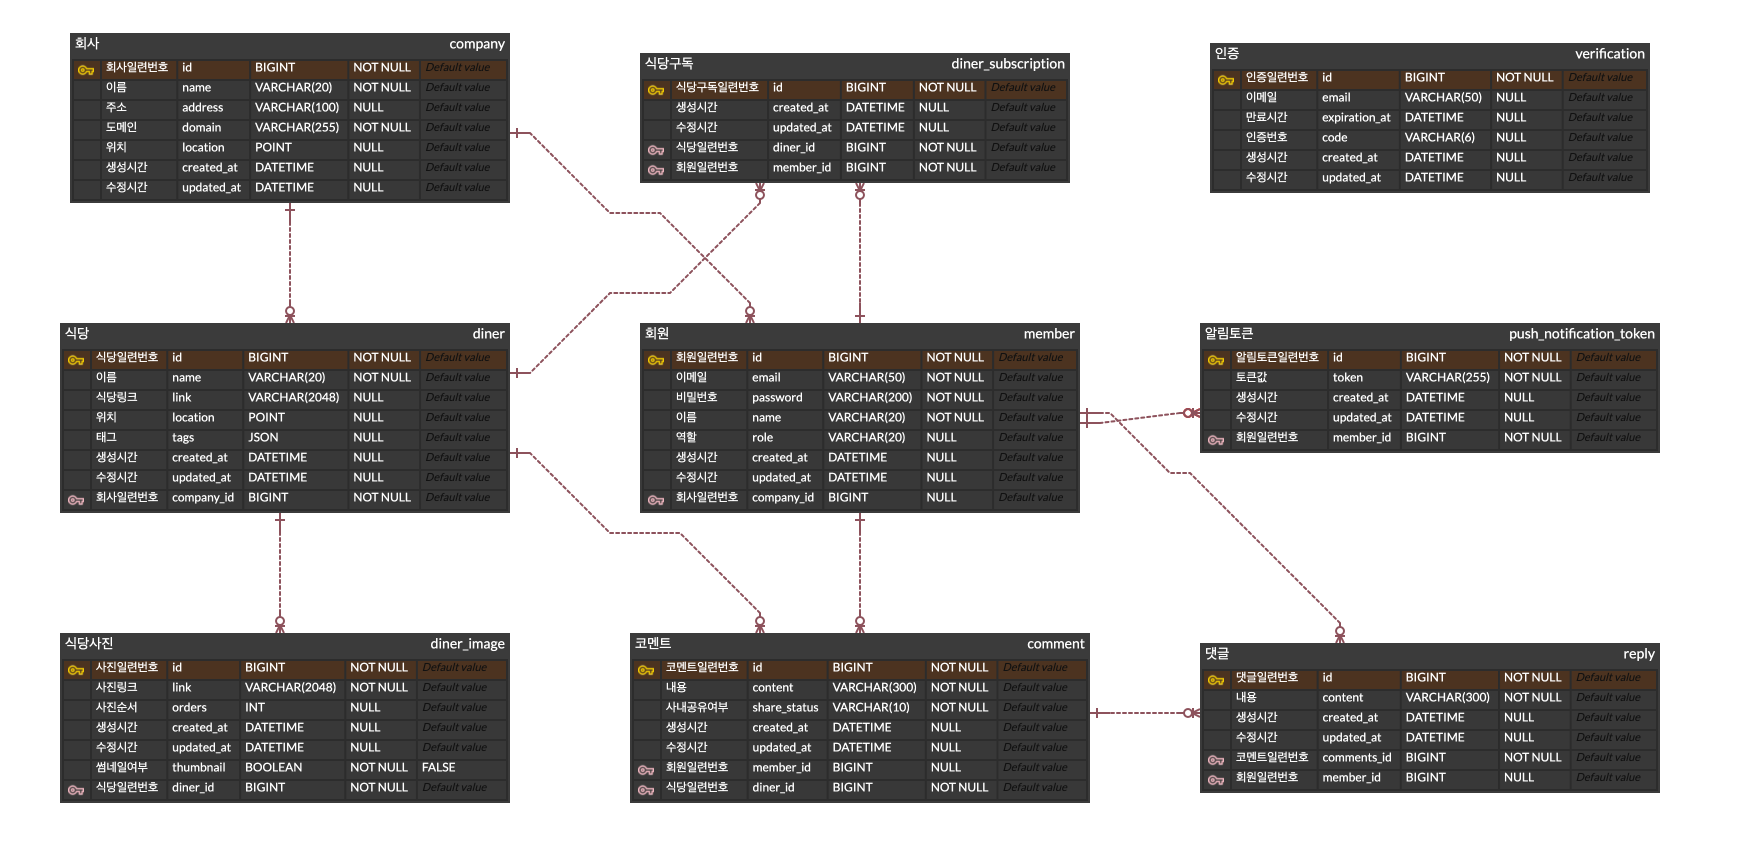
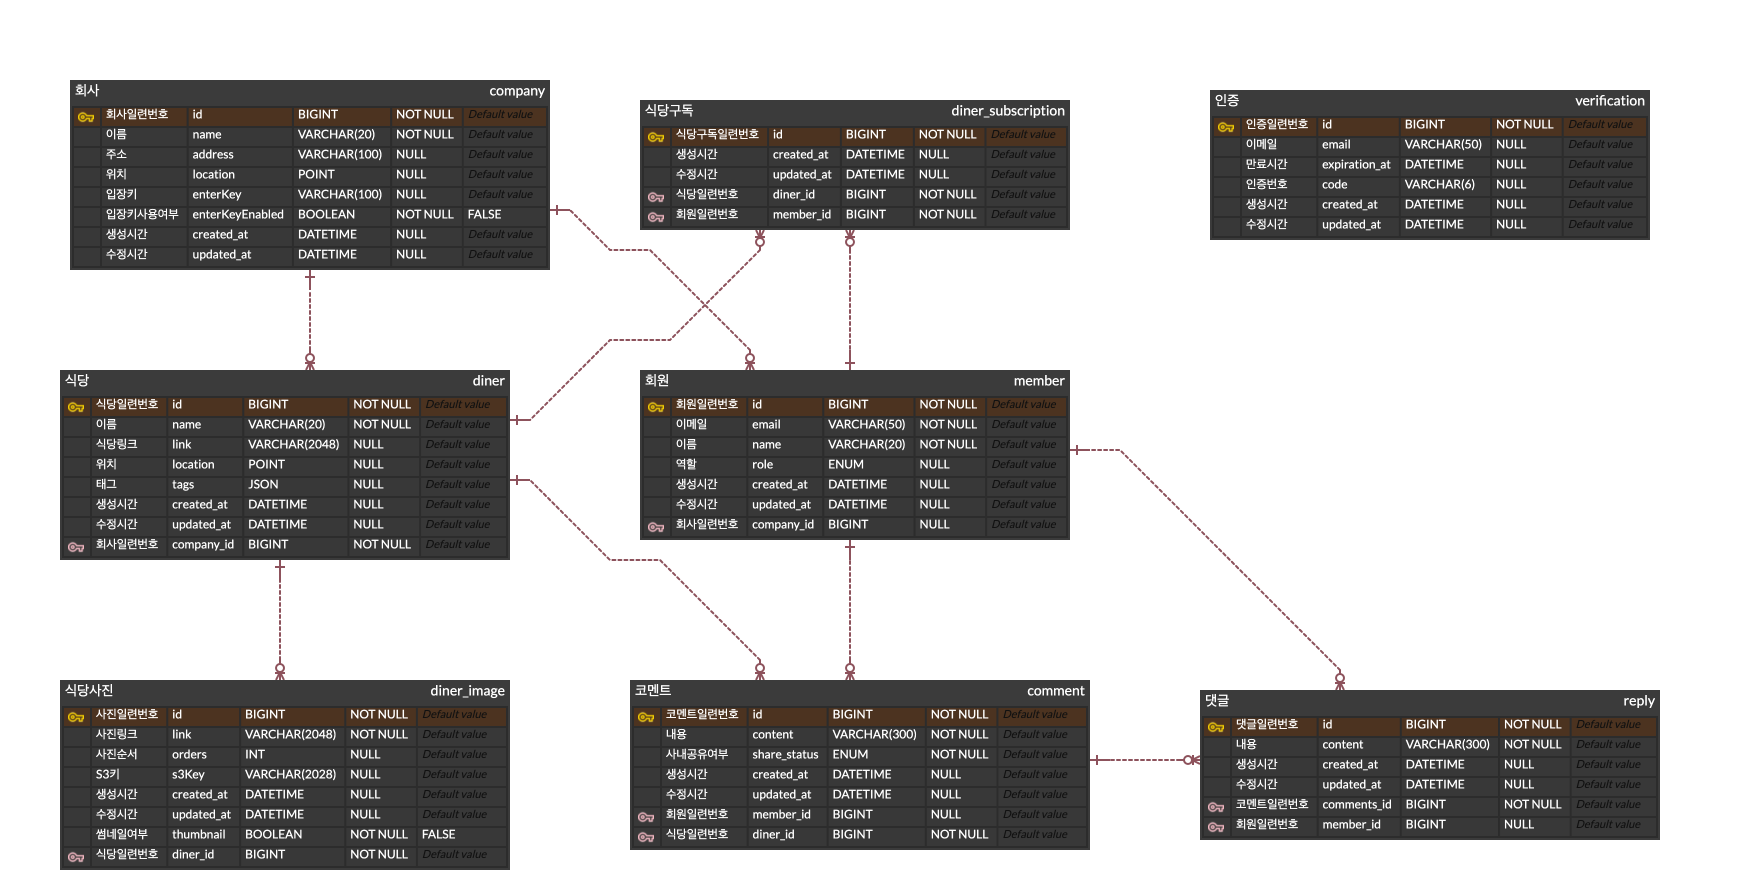
docs: Update readme

diff --git a/README.md b/README.md
@@ -2,20 +2,60 @@
 
 ## 우리 회사 점심 - 직장인 점심 기록 서비스 백엔드
 
-- 회사 이메일로 서비스를 가입하고, 직접 주변에 있는 식당을 등록합니다.
-- 자신이 먹은 점심과 식당에 대한 코멘트를 기록하고, 사내에서 공유합니다.
+- 서비스를 가입하고, 회사를 등록한 후, 직접 주변에 있는 식당을 등록합니다.
+- 자신이 먹은 점심과 식당에 대한 코멘트를 기록하고, 회사 내에서 공유합니다.
 
 ## 서비스 기대효과
 
-- 자신의 코멘트와 다른 동료들의 코멘트들을 확인하고, 다음 점심을 선택할 때 참고합니다.
-- 사내 아는 사람들에 의한 코멘트이므로 포털 리뷰보다 믿을 수 있습니다.
+- 자신의 코멘트와 다른 동료들의 코멘트를 확인하고, 다음 점심을 선택할 때 참고합니다.
+- 회사내 아는 사람들에 의한 코멘트이므로 다른 리뷰보다 믿을 수 있습니다.
 
-# 프로젝트 기능
+# 시스템 구성도
+
+![System Configuration](doc/img/system-configuration.png)
+
+# Tech Stack
+
+- Java 21
+- Spring Boot 3.2.9
+- Spring Web
+- Spring Security
+- Spring Validation
+- Spring Data JPA
+- Spring Actuator
+- QueryDSL 5.0.0
+- MariaDB
+- MongoDB
+- Gmail Mail Server
+- Mockito
+- Lombok
+- AWS S3
+- AWS CloudFront
+- Kafka
+- Firebase Cloud Messaging
+- Let's Encrypt
+- Promethues
+- Grafana
+- Github Action
+
+# Github 저장소 분리
+
+- 서버 로직을 분리하기 위해 저장소를 분리했습니다.
+  - Business Server: https://github.com/marcel1315/our-company-lunch (현재 저장소)
+  - Auth Server: https://github.com/marcel1315/our-company-lunch-auth-server
+  - Notification Server: https://github.com/marcel1315/our-company-lunch-noti-server
+  - common library: https://github.com/marcel1315/our-company-lunch-common
+
+# ERD
+
+- Business Server ERD
+  ![ERD](doc/img/our-company-lunch-erd.png) // TODO: 현행화 필요
+
+# 서비스 제공 기능
 
 - 회원가입 기능
-  - 사용자는 회원가입을 할 수 있다. 모든 사용자는 회원가입 시 USER 권한(일반 권한)을 지닌다.
-  - 회원가입시 이메일, 이름과 비밀번호를 입력받는다. 이메일이 아이디가 되며 unique 해야한다.
-  - 구글, 네이버, 카카오, 다음, 한메일, 야후 등 이메일 공급자로부터 받은 이메일은 가입할 수 없다. 회사 도메인을 사용해야 한다.
+  - 사용자는 회원가입을 할 수 있다.
+  - 회원가입시 이메일, 이름과 비밀번호를 입력받는다. 이메일이 아이디가 되며 서비스내에서 유일해야한다.
   - 회원가입 중 이메일을 통한 번호인증을 한다.
 
 - 로그인 기능
@@ -28,13 +68,13 @@
   - 아이디(이메일)과 비밀번호로 탈퇴할 수 있다.
 
 - 회사 등록 기능
-  - 사용자는 회사를 등록할 수 있다. 가입한 이메일 도메인으로 회사가 등록된다.
+  - 사용자는 회사를 등록할 수 있다.
   - 회사 등록시 이름, 주소, 위도, 경도를 입력한다.
-  - 같은 회사라도 여러 주소가 있을 수 있으므로, 같은 도메인의 회사 등록은 여러 곳이 가능하다.
+  - 회사 등록시 enterKey 라는 것을 입력하고, 이 키를 통해 다른 회사원들이 등록된 회사에 들어올 수 있다.
 
 - 회사 조회 및 선택 기능
-  - 사용자는 가입한 이메일 도메인으로 등록된 회사들을 조회할 수 있다.
-  - 사용자는 조회된 회사들 중 하나를 선택한다.
+  - 사용자는 등록된 회사들을 조회할 수 있다.
+  - 사용자는 조회된 회사들 중 하나를 선택한다. enterKey를 입력해서 들어갈 수 있다.
 
 - 회사 정보 수정 기능
   - 사용자는 회사 정보를 수정할 수 있다. 주소, 위도, 경도를 수정할 수 있다.
@@ -89,152 +129,111 @@
   - 구독한 식당에 코멘트가 달리면, 사용자는 알림을 받는다.
   - 사용자는 알림을 받기 위해 SSE 연결을 맺을 수 있고, FCM(Firebase Cloud Messaging) 토큰을 등록할 수 있다.  
 
-# ERD
+# API
 
-![ERD](doc/img/our-company-lunch-erd.png)
+## Swagger API Docs
 
-# API 문서
-
-## Swagger 문서
-
-- http://api.ourcompanylunch.com/swagger-ui/index.html
+- Business API: https://api.ourcompanylunch.com/swagger-ui/index.html
+- Auth API: https://auth-dev.ourcompanylunch.com/swagger-ui/index.html
+- Notification API: https://noti-dev.ourcompanylunch.com/swagger-ui/index.html
 
 ## 주요 API 사용 흐름 예시
 
-### 회원 가입 후 회사 등록 및 선택
+### 1. 회원 가입 후 회사 등록 및 선택
 
-1. POST /signup/send-verification-code
+1. Auth Server - POST /users/send-verification-code
+   
+   회원가입을 위해 인증코드를 받습니다.
 
-   회원가입을 위해 인증코드를 받습니다. (이메일은 회사 자체의 이메일만 사용하도록 유명 이메일 공급자로 가입하지 못하도록 막을 예정이지만, 현재 프로젝트 단계에선 테스트를 위해 gmail, naver 등 모든 이메일 주소로 가입할 수 있습니다.)
-
-2. POST /signup
+2. Auth Server - POST /users/signup
 
    이메일, 비밀번호, 이름, 인증코드를 전달하며 회원가입을 합니다.
 
-3. POST /signin
+3. Auth Server - POST /users/signin
 
    로그인을 하고, JWT token을 돌려받습니다. 아래 사용되는 API들의 Header에 Authorization: Bearer {token} 을 넣어 보냅니다. Swagger에서는 오른쪽 상단의 Authorize에 (Bearer없이) 토큰값만 넣으면 됩니다. 
 
-4. POST /companies
+4. Business Server - POST /companies
 
    자신의 회사를 등록합니다. 입력하는 위도, 경도는 추후에 식당과의 거리를 계산하기 위해 사용됩니다.
 
-5. GET /companies
+5. Business Server - GET /companies
 
    등록되어 있는 회사 목록을 볼 수 있습니다. 가입한 이메일 도메인과 일치하는 회사들만 나타납니다.
 
-6. PUT /companies/1/choose
+6. Business Server - PUT /companies/1/choose
 
    사용자가 회사를 선택합니다. 사용자는 1곳의 회사만 선택할 수 있습니다. 이메일 도메인이 일치하는 다른 회사로 추후에 변경할 수도 있습니다.
 
-### 식당 등록 후 사진 업로드
+### 2. 식당 등록 후 사진 업로드
 
-1. POST /diners
+1. Business Server - POST /diners
 
    자신의 회사에 식당을 생성합니다.
 
-2. GET /diners
+2. Business Server - GET /diners
 
-   자신이 선택한 회사에 등록된 식당 목록을 받아옵니다.
+   자신의 회사에 등록된 식당 목록을 받아옵니다.
 
-3. POST /diners/1/images/
+3. Business Server - POST /diners/1/images/
 
    특정 식당의 사진을 업로드합니다.
 
-### 식당의 코멘트 조회 및 코멘트 작성
+### 3. 식당의 코멘트 조회 및 코멘트 작성
 
-1. GET /diners/1/comments
+1. Business Server - GET /diners/1/comments
 
    특정 식당에 달린 코멘트들을 조회합니다.
 
-2. POST /diners/1/comments
+2. Business Server - POST /diners/1/comments
 
    특정 식당에 코멘트를 답니다.
 
-### 식당 알림받기
+### 4. 식당 알림받기
 
-1. POST /notifications/fcm/token
+1. Notification Server - POST /notifications/fcm/token
 
    알림을 받기 위해 클라이언트는 FCM으로부터 token을 받아야합니다. 받은 FCM token을 해당 서버에 등록합니다.
 
-2. GET /notifications/sse
+2. Business Server - POST /diners/1/comments
 
-   클라이언트가 SSE로 실시간 알림을 받으려면 SSE 연결을 클라이언트에서 맺어야 합니다.
-
-3. POST /notifications/sse/terminate
-
-   클라이언트가 SSE 알림을 받는 것을 끝내려면, SSE 연결을 끊는 요청을 명시적으로 보냅니다.
-
-# 시스템 구성도
-
-![System Configuration](doc/img/system-configuration.png)
-
-# Tech Stack
-
-- Java 21
-
-- Spring Boot 3.2.5
-
-- Spring Web
-
-- Spring Security
-
-- Spring Validation
-
-- Spring Data JPA
-
-- QueryDSL 5.0.0
-
-- MariaDB
-
-- Java Mail Sender
-
-- Mockito
-
-- Lombok
-
-- AWS S3
-
-- SSE(Server Side Event)
-
-- Kafka
-
-- Firebase Cloud Messaging
-
-- Github Action
-
-- AWS CodeDeploy
-
-# Deployment
-
-![Deployment Process](doc/img/deployment-process.png)
-
-- application-ec2.yml 파일을 작성해 S3 배포 버킷에 업로드합니다.
-
-- Firebase project에서 json 파일을 다운로드 받아 파일 이름을 "our-company-lunch-firebase-adminsdk.json"로 변경 후 S3 배포 버킷에 업로드합니다.
-
-- github 저장소의 main 브랜치에 배포할 내용을 푸시합니다.
-
-# Glossary
-
-- 코멘트 : 짧은 글인 것을 강조하기 위해 “글” 또는 “리뷰”보다 “코멘트”라는 용어를 사용합니다. "글"은 제목과 본문을 가지고 길게 써야할 것 같습니다. "리뷰"는 평점이
-  들어가야 할 것 같습니다.
+   식당을 구독하는 다른 계정에서 코멘트를 작성합니다. 코멘트가 작성되면, 구독자를 찾아 알림을 전송합니다.
 
 # Development Setup
 
-- 해당 프로젝트는 MariaDB에 접속할 수 있어야 합니다. 접속 정보는 application-dev.yml에서 설정합니다.
+- 각 서버에서 docker-compose.yml 파일을 실행합니다. 각 서버마다 필요한 의존성이 들어있습니다.
 
-- Mail Server로 Gmail을 사용합니다. Gmail에서 앱 비밀번호를 발급받아 application-dev.yml에 추가해야 합니다.
+- application-sample.yml 파일을 바탕으로 application-local.yml 파일을 작성합니다. 필요한 외부 서비스의 비밀번호 등을 넣습니다.
 
-- 개발하는 환경에서 AWS 계정에 접속할 수 있어야 하고, S3에 버킷을 만들어 프로젝트에 연결합니다. 버킷의 이름은 applicatoin-dev.yml에서 설정합니다.
+- 개발하는 환경에서 AWS 계정에 접속할 수 있는 프로필이 있어야 합니다. 
 
-- Kafka가 실행중이어야 합니다. 포트 및 연결 설정을 변경하려면 application-dev.yml을 수정합니다.
+- 사진 저장소용 S3 버킷을 만들어 프로젝트에 연결합니다. 버킷의 이름은 applicatoin-local.yml에 입력합니다.
 
-- Firebase 프로젝트가 있어야 하며, 서비스 계정 json 파일을 환경변수로 설정해야 합니다.
+- Mail Server로 Gmail을 사용합니다. Gmail에서 앱 비밀번호를 발급받아 application-local.yml에 입력합니다.
+
+- Notification 서버를 위해 Firebase 프로젝트가 있어야 하며, 서비스 계정 json 파일을 환경변수로 설정해야 합니다. 개발 환경에서는 intelliJ 에서 Run Configuration에서 env로 설정할 수 있습니다.
   ```bash
   export GOOGLE_APPLICATION_CREDENTIALS="/home/user/Downloads/service-account-file.json"
   ```
 
-# Troubleshooting
+# Deployment Setup (Home Server)
+- 전체 서버의 홈서버 배포 과정
+  ![Deployment Process](doc/img/deployment-process.png)
 
-- [Go to the troubleshooting section](doc/TROUBLESHOOTING.md)
+- 각 서버의 S3 배포용 버킷이 필요합니다.
+
+- 각 서버에서 application-sample.yml 파일을 바탕으로 application-mac.yml 파일을 작성해 각 서버 S3 배포 버킷에 업로드합니다.
+
+- 각 서버에서 docker-compose.yml 파일을 바탕으로 docker-compose.mac.yml 파일을 작성해 각 서버 S3 배포 버킷에 업로드합니다.
+
+- Notification 서버에서 Firebase project에서 json 파일을 다운로드 받아 파일 이름을 "our-company-lunch-firebase-adminsdk.json"로 변경 후 Notification Server S3 배포 버킷에 업로드합니다.
+
+- Metric docker compose 파일은 Business Server 저장소의 /metrics/에 있습니다.
+
+- common 라이브러리에서 버전 태그를 붙이고, 그 버전을 사용하기 위해서는 각 서버에서 implementation의 version을 올려줘야 합니다.
+
+- 배포되는 환경(home server)에서 AWS 계정에 접속할 수 있는 프로필이 있어야 합니다.
+
+# Glossary
+
+- 코멘트 : 짧은 글인 것을 강조하기 위해 “글” 또는 “리뷰”보다 “코멘트”라는 용어를 사용합니다. "글"은 제목과 본문을 가지고 길게 써야할 것 같고, "리뷰"는 평점이 들어가야 할 것 같아 피했습니다.
